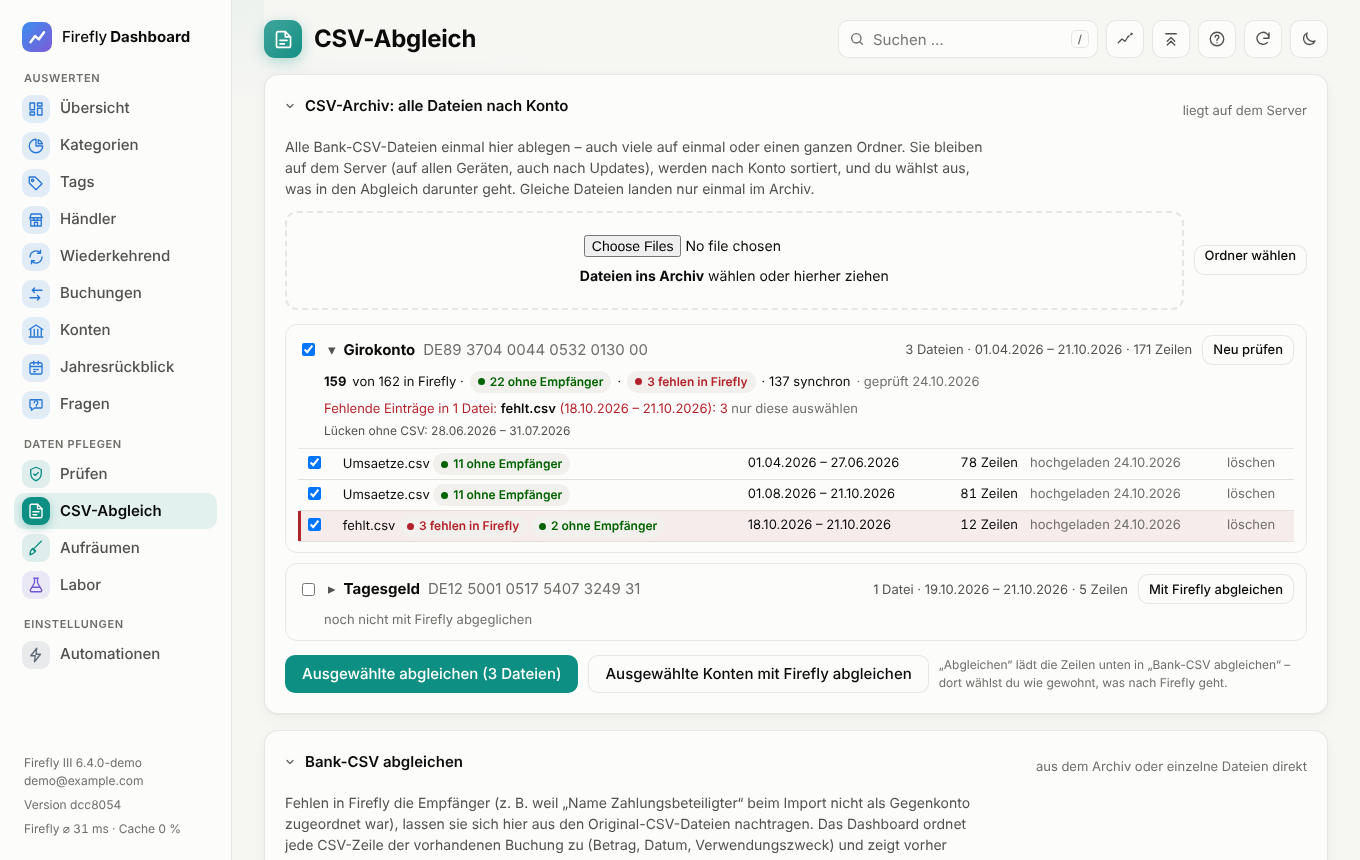
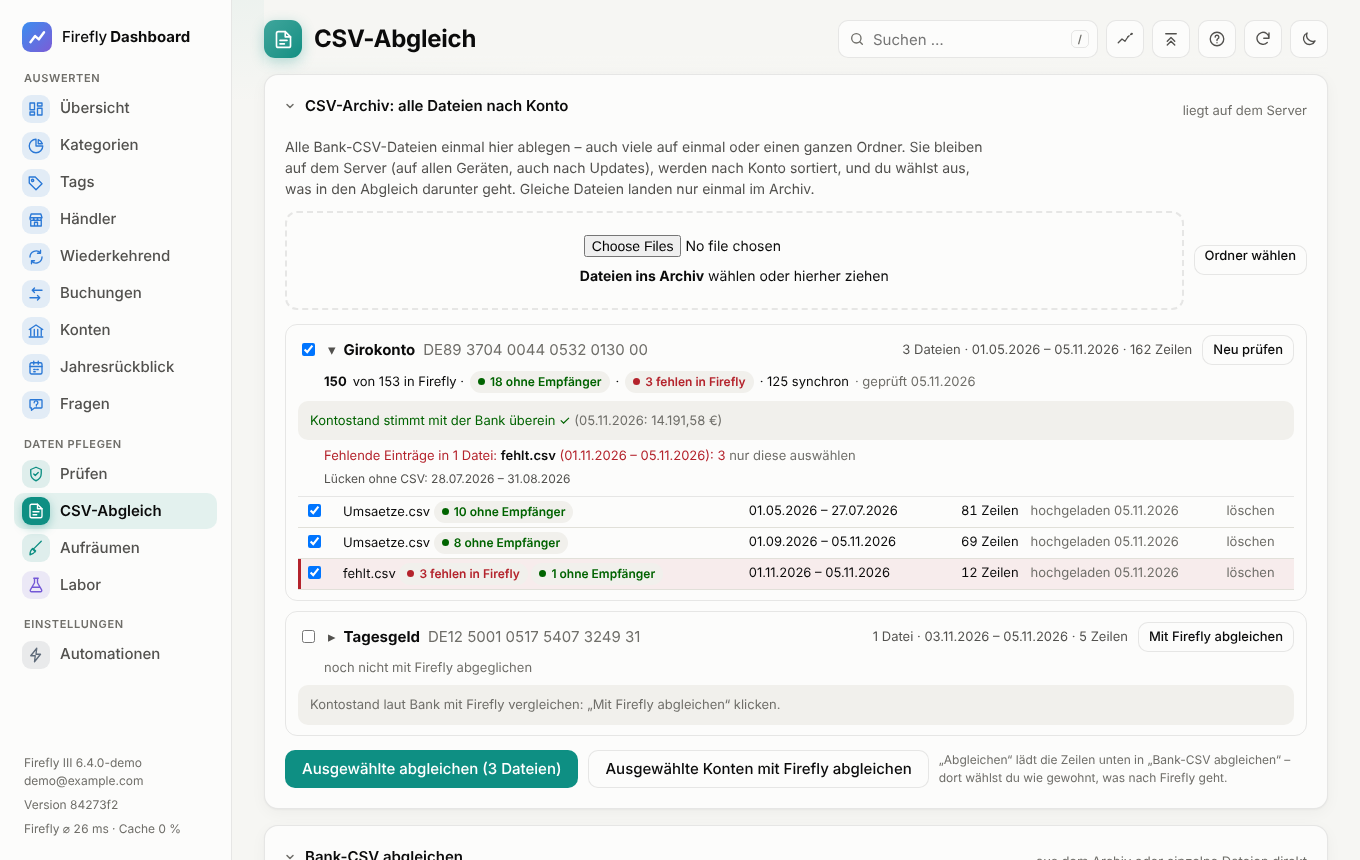
CSV-Archiv: Firefly-Konto von Hand zuordnen, Kontostand-Vergleich sichtbar
Der Kontostand-Vergleich lief nur, wenn das Firefly-Konto dieselbe IBAN wie
die CSV hat – sonst erschien kommentarlos nichts. Jetzt lässt sich das Konto
unter „Firefly-Konto“ zuordnen (auf dem Server gespeichert, alle Geräte),
und die Zeile erklärt immer, was fehlt: Prüfung starten, Konto zuordnen oder
CSV ohne „Saldo nach Buchung“.

Screenshot-Skript: Beispiel-CSV mit Saldo-Spalte, Bild CSV-Abgleich neu.

Claude-Session: https://claude.ai/code/session_017CCe4q4F121UhA8tHqTQzy

Changed region(s): [[0.1853, 0.393, 0.9574, 1.0], [0.7412, 0.9977, 0.9574, 1.0], [0.0618, 0.907, 0.0926, 0.9372]]

diff --git a/public/js/csvarchive.js b/public/js/csvarchive.js
@@ -31,7 +31,7 @@ function gapsOf(files) {
 
 export function csvArchive(el, { load, memory }) {
   let data = { files: [], status: {} };
-  let accounts = []; // Firefly-Bestandskonten { id, name, iban }
+  let accounts = []; // Firefly-Bestandskonten { id, name, iban } (iban auch leer)
   const fileCache = new Map(); // id → ArrayBuffer
   const selected = new Set(); // Datei-IDs
   const open = new Set(); // aufgeklappte Konten
@@ -78,7 +78,8 @@ export function csvArchive(el, { load, memory }) {
     busy = '';
   }
 
-  const accountFor = (iban) => accounts.find((a) => a.iban === iban);
+  /** Firefly-Konto zur IBAN: über die IBAN in Firefly oder von Hand zugeordnet. */
+  const accountFor = (iban) => accounts.find((a) => a.iban && a.iban === iban) || accounts.find((a) => a.id === data.links?.[iban]);
   /** Dateien nach Konto gruppieren. */
   const groups = () => {
     const map = new Map();
@@ -162,7 +163,7 @@ export function csvArchive(el, { load, memory }) {
       });
       perFile[idOf.get(f)] = c;
     }
-    const saldo = g.acc && rows.some((r) => r.saldo !== null) ? await checkSaldo(g, rows) : null;
+    const saldo = !rows.some((r) => r.saldo !== null) ? { skipped: 'spalte' } : !g.acc ? { skipped: 'konto' } : await checkSaldo(g, rows);
     data = await call('/status', { method: 'POST', headers: jsonHeaders, body: JSON.stringify({ status: { [g.key]: { counts, perFile, rows: unique.length, from: g.from, to: g.to, files: g.sig, saldo } } }) });
   }
 
@@ -201,8 +202,12 @@ export function csvArchive(el, { load, memory }) {
   /** Zeile unter dem Abgleich-Status: stimmt der Kontostand mit der Bank überein? */
   const saldoLine = (g) => {
     const s = g.status?.saldo;
-    if (!s) return '';
-    if (Math.abs(s.diff) < 0.005) return `<div class="arch-saldo good">Kontostand stimmt mit der Bank überein ✓ <span class="muted">(${fmtDate(s.last)}: ${money(s.bank)})</span></div>`;
+    if (g.key === UNKNOWN) return '';
+    if (!g.status) return '<div class="arch-saldo muted">Kontostand laut Bank mit Firefly vergleichen: „Mit Firefly abgleichen“ klicken.</div>';
+    if (!s) return '<div class="arch-saldo muted">Kontostand laut Bank mit Firefly vergleichen: „Neu prüfen“ klicken.</div>';
+    if (s.skipped === 'konto') return '<div class="arch-saldo muted">Kontostand-Vergleich braucht das Firefly-Konto: oben unter „Firefly-Konto“ auswählen, dann „Neu prüfen“.</div>';
+    if (s.skipped === 'spalte') return '<div class="arch-saldo muted">Kein Kontostand-Vergleich: Die CSV-Dateien haben keine Spalte „Saldo nach Buchung“.</div>';
+    if (Math.abs(s.diff) < 0.005) return `<div class="arch-saldo good"><div>Kontostand stimmt mit der Bank überein ✓ <span class="muted">(${fmtDate(s.last)}: ${money(s.bank)})</span></div></div>`;
     const link = (x) => (x.group && fireflyTxUrl({ groupId: x.group }) ? ` <a class="plain" href="${esc(fireflyTxUrl({ groupId: x.group }))}" target="_blank" rel="noopener" title="In Firefly öffnen">↗</a>` : '');
     const item = (x, extra = '') => `<li><span class="date">${fmtDate(x.date)}</span> <b>${money(x.amount, 'EUR', { signed: true })}</b> ${esc(x.text)}${extra}${link(x)}</li>`;
     const half = (x) => Math.abs(Math.abs(x.amount) * 2 - Math.abs(s.diff)) < 0.005 || Math.abs(Math.abs(x.amount) - Math.abs(s.diff)) < 0.005;
@@ -305,6 +310,10 @@ export function csvArchive(el, { load, memory }) {
             <span class="arch-meta">${g.files.length} Datei${g.files.length === 1 ? '' : 'en'} · ${g.from ? `${fmtDate(g.from)} – ${fmtDate(g.to)}` : '–'} · ${g.rows} Zeilen</span>
             <button class="btn small" data-check="${esc(g.key)}"${busy ? ' disabled' : ''}>${g.status ? 'Neu prüfen' : 'Mit Firefly abgleichen'}</button>
           </div>
+          ${g.key !== UNKNOWN && accounts.length && !(g.acc?.iban === g.key) ? `<div class="arch-link"><label>Firefly-Konto <select class="input select" data-link="${esc(g.key)}">
+            <option value="">– nicht zugeordnet –</option>
+            ${accounts.map((a) => `<option value="${esc(a.id)}"${g.acc?.id === a.id ? ' selected' : ''}>${esc(a.name)}</option>`).join('')}</select></label>
+            ${g.acc ? '' : '<span class="muted">In Firefly hat kein Konto diese IBAN – bitte zuordnen.</span>'}</div>` : ''}
           <div class="arch-status">${statusLine(g)}</div>
           ${saldoLine(g)}
           ${(() => {
@@ -313,7 +322,6 @@ export function csvArchive(el, { load, memory }) {
               <button class="link-btn" data-pick-missing="${esc(g.key)}">nur diese auswählen</button></div>` : '';
           })()}
           ${g.gaps.length ? `<div class="arch-gaps">Lücken ohne CSV: ${g.gaps.slice(0, 6).map(([a, b]) => `${fmtDate(a)} – ${fmtDate(b)}`).join(' · ')}${g.gaps.length > 6 ? ` · +${g.gaps.length - 6} weitere` : ''}</div>` : ''}
-          ${g.key !== UNKNOWN && !g.acc && accounts.length ? '<div class="arch-gaps">Kein Bestandskonto mit dieser IBAN in Firefly – abgeglichen wird gegen alle Buchungen.</div>' : ''}
           ${open.has(g.key) ? `<table class="arch-files"><tbody>${g.files.map((f) => `<tr${fileState(g, f).missing ? ' class="arch-missing"' : ''}>
             <td><input type="checkbox" data-file="${f.id}" ${selected.has(f.id) ? 'checked' : ''} aria-label="Datei auswählen"></td>
             <td>${esc(f.name)}${f.info?.error ? ` <span class="bad">(${esc(f.info.error)})</span>` : ''} ${fileBadges(g, f)}</td>
@@ -331,7 +339,11 @@ export function csvArchive(el, { load, memory }) {
     el.querySelectorAll('[data-partial]').forEach((x) => (x.indeterminate = true));
   }
 
-  el.addEventListener('change', (e) => {
+  el.addEventListener('change', async (e) => {
+    if (e.target.dataset.link !== undefined) {
+      data = await call('/link', { method: 'POST', headers: jsonHeaders, body: JSON.stringify({ iban: e.target.dataset.link, account: e.target.value || null }) });
+      return render();
+    }
     if (e.target.id === 'a-input' || e.target.id === 'a-dir') return e.target.files.length && upload(e.target.files);
     const acc = e.target.dataset.acc;
     if (acc !== undefined) {
@@ -422,7 +434,7 @@ export function csvArchive(el, { load, memory }) {
     try {
       const [list, accs] = await Promise.all([call(''), api.getAll('accounts', { type: 'asset' }).catch(() => [])]);
       data = list;
-      accounts = accs.map((a) => ({ id: a.id, name: a.attributes?.name || '', iban: String(a.attributes?.iban || '').replace(/\s+/g, '').toUpperCase() })).filter((a) => a.iban);
+      accounts = accs.filter((a) => a.attributes?.active !== false).map((a) => ({ id: String(a.id), name: a.attributes?.name || '', iban: String(a.attributes?.iban || '').replace(/\s+/g, '').toUpperCase() }));
       await ensureInfos();
     } catch (err) {
       note = `<span class="bad">Archiv nicht lesbar: ${esc(err.message)}</span>`;

diff --git a/lib/csvarchive.js b/lib/csvarchive.js
@@ -9,6 +9,7 @@
 //   DELETE /local/csvarchive/file/<id>       Datei löschen
 //   POST   /local/csvarchive/info            { infos: { id: { own, from, to, rows } } }
 //   POST   /local/csvarchive/status          { status: { konto: { …zahlen, at } } }
+//   POST   /local/csvarchive/link            { iban, account } – Firefly-Konto von Hand zuordnen (account null = lösen)
 
 import fs from 'node:fs';
 import path from 'node:path';
@@ -24,7 +25,7 @@ const text = (v, n = 200) => String(v ?? '').slice(0, n);
 export function createCsvArchive(dataDir, { log = console.log } = {}) {
   const dir = path.join(dataDir, 'csv-archive');
   fs.mkdirSync(dir, { recursive: true });
-  const index = jsonFile(path.join(dataDir, 'csv-archive.json'), { files: {}, status: {} }, { snapshots: true, log });
+  const index = jsonFile(path.join(dataDir, 'csv-archive.json'), { files: {}, status: {}, links: {} }, { snapshots: true, log });
 
   const readBody = (req, max) => new Promise((resolve, reject) => {
     const chunks = [];
@@ -52,6 +53,7 @@ export function createCsvArchive(dataDir, { log = console.log } = {}) {
     return {
       files: Object.entries(data.files).map(([id, f]) => ({ id, ...f })).sort((a, b) => a.name.localeCompare(b.name, 'de')),
       status: data.status || {},
+      links: data.links || {},
     };
   };
   const cleanInfo = (i) => ({
@@ -65,7 +67,7 @@ export function createCsvArchive(dataDir, { log = console.log } = {}) {
     date: text(x?.date, 10), amount: num(x?.amount) ?? 0, text: text(x?.text, 140),
     ...(x?.group ? { group: text(x.group, 20) } : {}), ...(x?.firefly !== undefined ? { firefly: num(x.firefly) } : {}),
   })) : []);
-  const cleanSaldo = (s) => (s && typeof s === 'object' ? {
+  const cleanSaldo = (s) => (s && typeof s === 'object' && s.skipped ? { skipped: ['konto', 'spalte'].includes(s.skipped) ? s.skipped : 'spalte' } : s && typeof s === 'object' ? {
     last: text(s.last, 10), bank: num(s.bank), firefly: num(s.firefly), diff: num(s.diff) ?? 0,
     since: s.since ? text(s.since, 10) : null, before: s.before ? text(s.before, 10) : null,
     missing: cleanItems(s.missing), extra: cleanItems(s.extra), wrong: cleanItems(s.wrong),
@@ -119,6 +121,17 @@ export function createCsvArchive(dataDir, { log = console.log } = {}) {
         const input = await readJson(req);
         const data = index.read();
         for (const [id, info] of Object.entries(input.infos || {})) if (data.files[id]) data.files[id].info = cleanInfo(info);
+        index.write(data);
+        return json(200, list());
+      }
+      if (p === 'link' && req.method === 'POST') {
+        const input = await readJson(req);
+        const iban = text(input.iban, 40).replace(/[^A-Z0-9]/gi, '').toUpperCase();
+        if (!iban) throw new Error('IBAN fehlt.');
+        const data = index.read();
+        data.links ||= {};
+        if (input.account && /^\d{1,12}$/.test(String(input.account))) data.links[iban] = String(input.account);
+        else delete data.links[iban];
         index.write(data);
         return json(200, list());
       }

diff --git a/public/styles.css b/public/styles.css
@@ -1329,3 +1329,7 @@ tr.tx-hidden td.num { text-decoration: line-through; }
 .arch-saldo ul { margin: 4px 0 0; padding-left: 18px; }
 .arch-saldo li { margin: 2px 0; overflow-wrap: anywhere; }
 .arch-saldo .date { color: var(--text-muted); font-variant-numeric: tabular-nums; }
+.arch-saldo.muted { color: var(--text-muted); }
+.arch-link { display: flex; flex-wrap: wrap; align-items: center; gap: 8px; margin: 6px 0 0; font-size: 13px; }
+.arch-link label { display: flex; align-items: center; gap: 8px; flex: 1 1 260px; min-width: 0; max-width: 420px; }
+.arch-link select { height: 32px; flex: 1 1 auto; width: 100%; min-width: 0; }

diff --git a/public/sw.js b/public/sw.js
@@ -1,7 +1,7 @@
 // Service Worker: App sofort starten (auch offline) und zuletzt geladene
 // Daten zeigen, wenn der Server nicht erreichbar ist.
 
-const VERSION = 'ffd-48';
+const VERSION = 'ffd-49';
 const SHELL = `${VERSION}-shell`;
 const DATA = `${VERSION}-data`;
 const MAX_DATA_ENTRIES = 400;

diff --git a/README.md b/README.md
@@ -499,7 +499,10 @@ wählen (gern alle auf einmal, überlappende Zeilen zählen nur einmal):
   Konto gebucht), in Firefly zusätzlich (doppelt, falsches Konto) oder mit falscher Richtung –
   eine vertauschte Umbuchung zählt doppelt. Buchungen, deren Betrag genau zur Differenz passt,
   sind markiert. Firefly-Buchungen zählen dabei am Buchungstag ihrer CSV-Zeile, ein abweichendes
-  Valutadatum führt also nicht zu Fehlalarmen.
+  Valutadatum führt also nicht zu Fehlalarmen. Zu finden unter **CSV-Abgleich → CSV-Archiv**, je
+  Konto nach „Mit Firefly abgleichen“ bzw. „Neu prüfen“. Die Dateien werden dem Firefly-Konto über
+  dessen IBAN zugeordnet; ist in Firefly keine IBAN hinterlegt, das Konto unter „Firefly-Konto“
+  einmal auswählen (gilt auf allen Geräten).
 
 - Die Dateien werden **nur im Browser** gelesen (UTF-8 oder Windows-1252, `;` oder `,`), Spalten
   an der Kopfzeile erkannt (VR-Banken: „Name Zahlungsbeteiligter“, „IBAN Zahlungsbeteiligter“,
